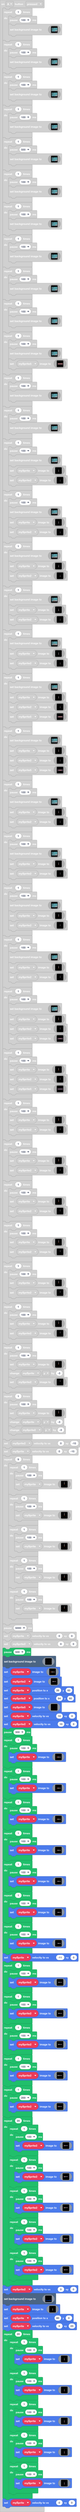
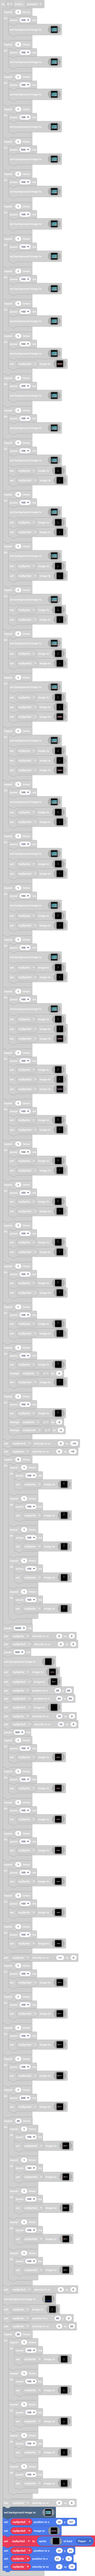
Update main.blocks, main.ts

diff --git a/main.ts b/main.ts
@@ -10311,7 +10311,164 @@ controller.A.onEvent(ControllerButtonEvent.Pressed, function () {
         }
     }
     mySprite.setVelocity(0, 0)
+    scene.setBackgroundImage(img`
[120 lines of base64/hex data omitted]
+        `)
+    mySprite5.setPosition(49, 107)
+    mySprite5.setImage(img`
+        b b b b b b b b b b b b b b b b b b b b b 
+        . b f b f b b f b b f b b f b b f b f b . 
+        . b f b f b b f b b f b b f b b f b f b . 
+        . b f b f b b f b b f b b f b b f b f b . 
+        b b b b b b b b b b b b b b b b b b b b b 
+        `)
+    mySprite3 = sprites.create(img`
+        fffffffffffffffffffffffffffffffffffffffffffffffff......
+        ffffffffffffffffffffff....ff....ff....ff....f..........
+        fffffffffffffffffffff.f...f.f...f.f...f.f...f..........
+        ...................ff..f..f..f..f..f..f..f..f..........
+        ...................ff...f.f...f.f...f.f...f.f..........
+        ...................ff...f.f...f.f...f.f...f.f..........
+        ...................ff....ff....ff....ff....ff..........
+        ...................fffffffffffffffffffffffffff.........
+        ...................ff..f......ff.......................
+        ...................ff.f......ff........................
+        ...................ff.f.....ff.........................
+        ...................ff.f.....ff.........................
+        ...................ff.f....ff..........................
+        ...................ff.f...ff...........................
+        ...................fff...ff............................
+        ...................fff...ff............................
+        ...................fff..ff.............................
+        ...................ffffff..............................
+        ffffffffffffffffffffffff...............................
+        ffffffffffffffffffffffff...............................
+        fffffffffffffffffffffff................................
+        `, SpriteKind.Player)
+    mySprite3.setPosition(38, 34)
+    mySprite.setPosition(51, 0)
+    mySprite.setVelocity(0, 10)
 })
+let mySprite3: Sprite = null
 let mySprite5: Sprite = null
 let mySprite2: Sprite = null
 let mySprite: Sprite = null
